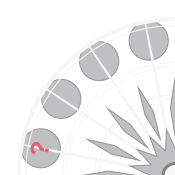
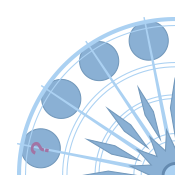
update

diff --git a/app/assets/stylesheets/pages/carnival/campaigns-bundle.css.scss b/app/assets/stylesheets/pages/carnival/campaigns-bundle.css.scss
@@ -9,6 +9,8 @@
 	width:350px;
 	height:350px;
 	position: relative;
+	left:550px;
+	top:300px;
  .ferris-wheel-box{
 		width:350px;
 		height:350px;
@@ -355,12 +357,7 @@
 		}
 	}
 }
-
-
-
-
 //旋转效果
-
 @-webkit-keyframes rotate{from{-webkit-transform: rotate(0deg)}
 to{-webkit-transform: rotate(360deg)}
 }
@@ -381,6 +378,7 @@ to{transform: rotate(359deg)}
 	z-index: 9;
 	margin:0 auto;
 	.page-inner{
+		position: relative;
 		padding:40px 0;
 	}
 }
@@ -444,28 +442,38 @@ to{transform: rotate(359deg)}
 	.share{
 		float: right;
 		position: relative;
-		ul{
-			width:150px;
+		.share-box{
+			width:175px;
 			position: absolute;
 			background: #fff;
 			top:40px;
 			right:0;
 			display: none;
-			li{
-				margin:10px;
-				a{
-					color:#333;
-					background: #f6f6f6;
-					display: block;
-					padding:0 10px;
-					i{
-						width:24px;
-						height:24px;
-						background: #fff;
-						float: left;
-						margin:8px 8px 0 0 ;
+			ul{
+				padding-bottom:10px;
+				li{
+					width:45px;
+					height:45px;
+					margin:10px 0 0 10px;
+					float: left;
+					a{
+						width:45px;
+						height:45px;
+						background: #f6f6f6;
+						display: block;
+						i{
+							width:24px;
+							height:24px;
+							background: #fff;
+							float: left;
+							margin:8px 8px 0 0 ;
+						}
 					}
 				}
+			}
+			.share-lottery{
+				height:60px;
+				border-top:1px #dbdbdb solid;
 			}
 		}
 	}
@@ -500,23 +508,36 @@ to{transform: rotate(359deg)}
 		}
 	}
 }
-.door{
-	width:404px;
-	height:376px;
-	margin:0 auto;
-	.left{
-		width:197px;
+.door-box{
+	width:1100px;
+	height:600px;
+	margin-top:100px;	
+	background:#A2CA81 url('/assets/activities/2014-6/ferris/door_bg.png') no-repeat center center;
+	.door{
+		width:404px;
 		height:376px;
-		float: left;
-		@include ferris-sprite(door_l);
-	}
-	.right{
-		width:207px;
-		height:376px;
-		float: left;
-		@include ferris-sprite(door_r);
+		position: relative;	
+		margin:0 auto;
+		top:208px;
+		.left{
+			width:207px;
+			height:376px;
+			position: absolute;
+			top:0;
+			left:5px;
+			@include ferris-sprite(door_l);
+		}
+		.right{
+			width:197px;
+			height:376px;
+			position: absolute;
+			top:0;
+			right:22px;
+			@include ferris-sprite(door_r);
+		}
 	}
 }
+
 .footer{
 	width:100%;
 	height:40px;
